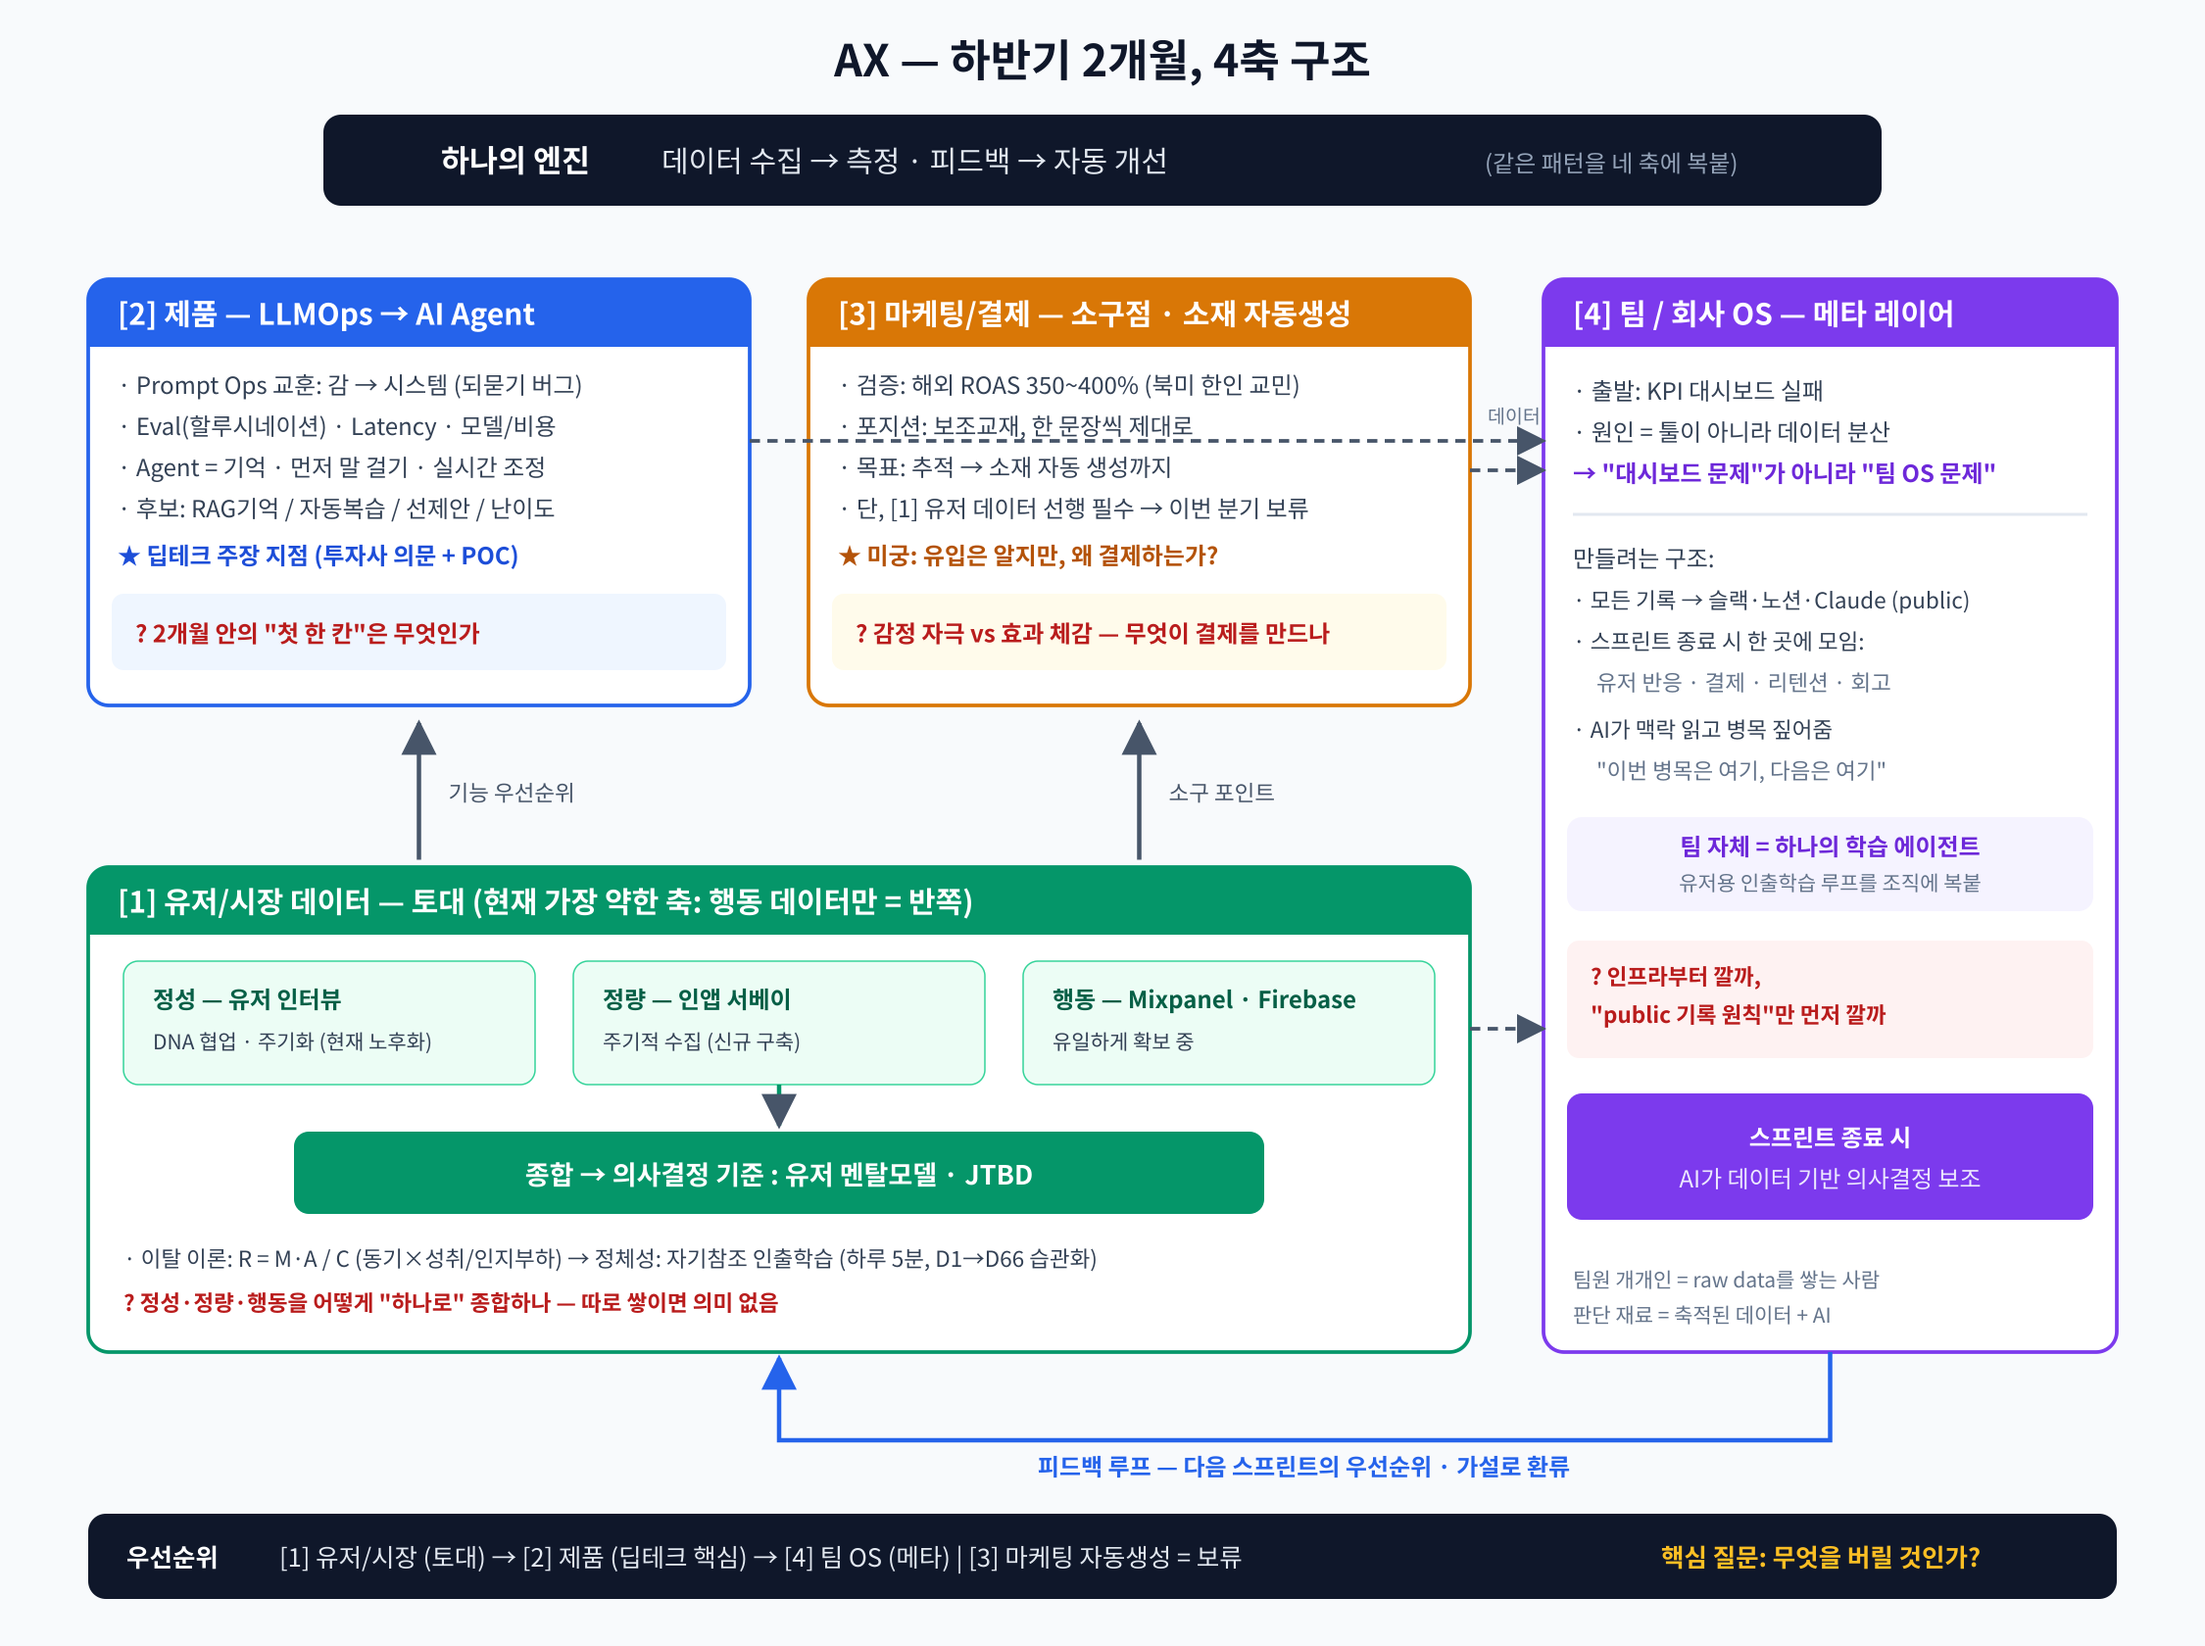
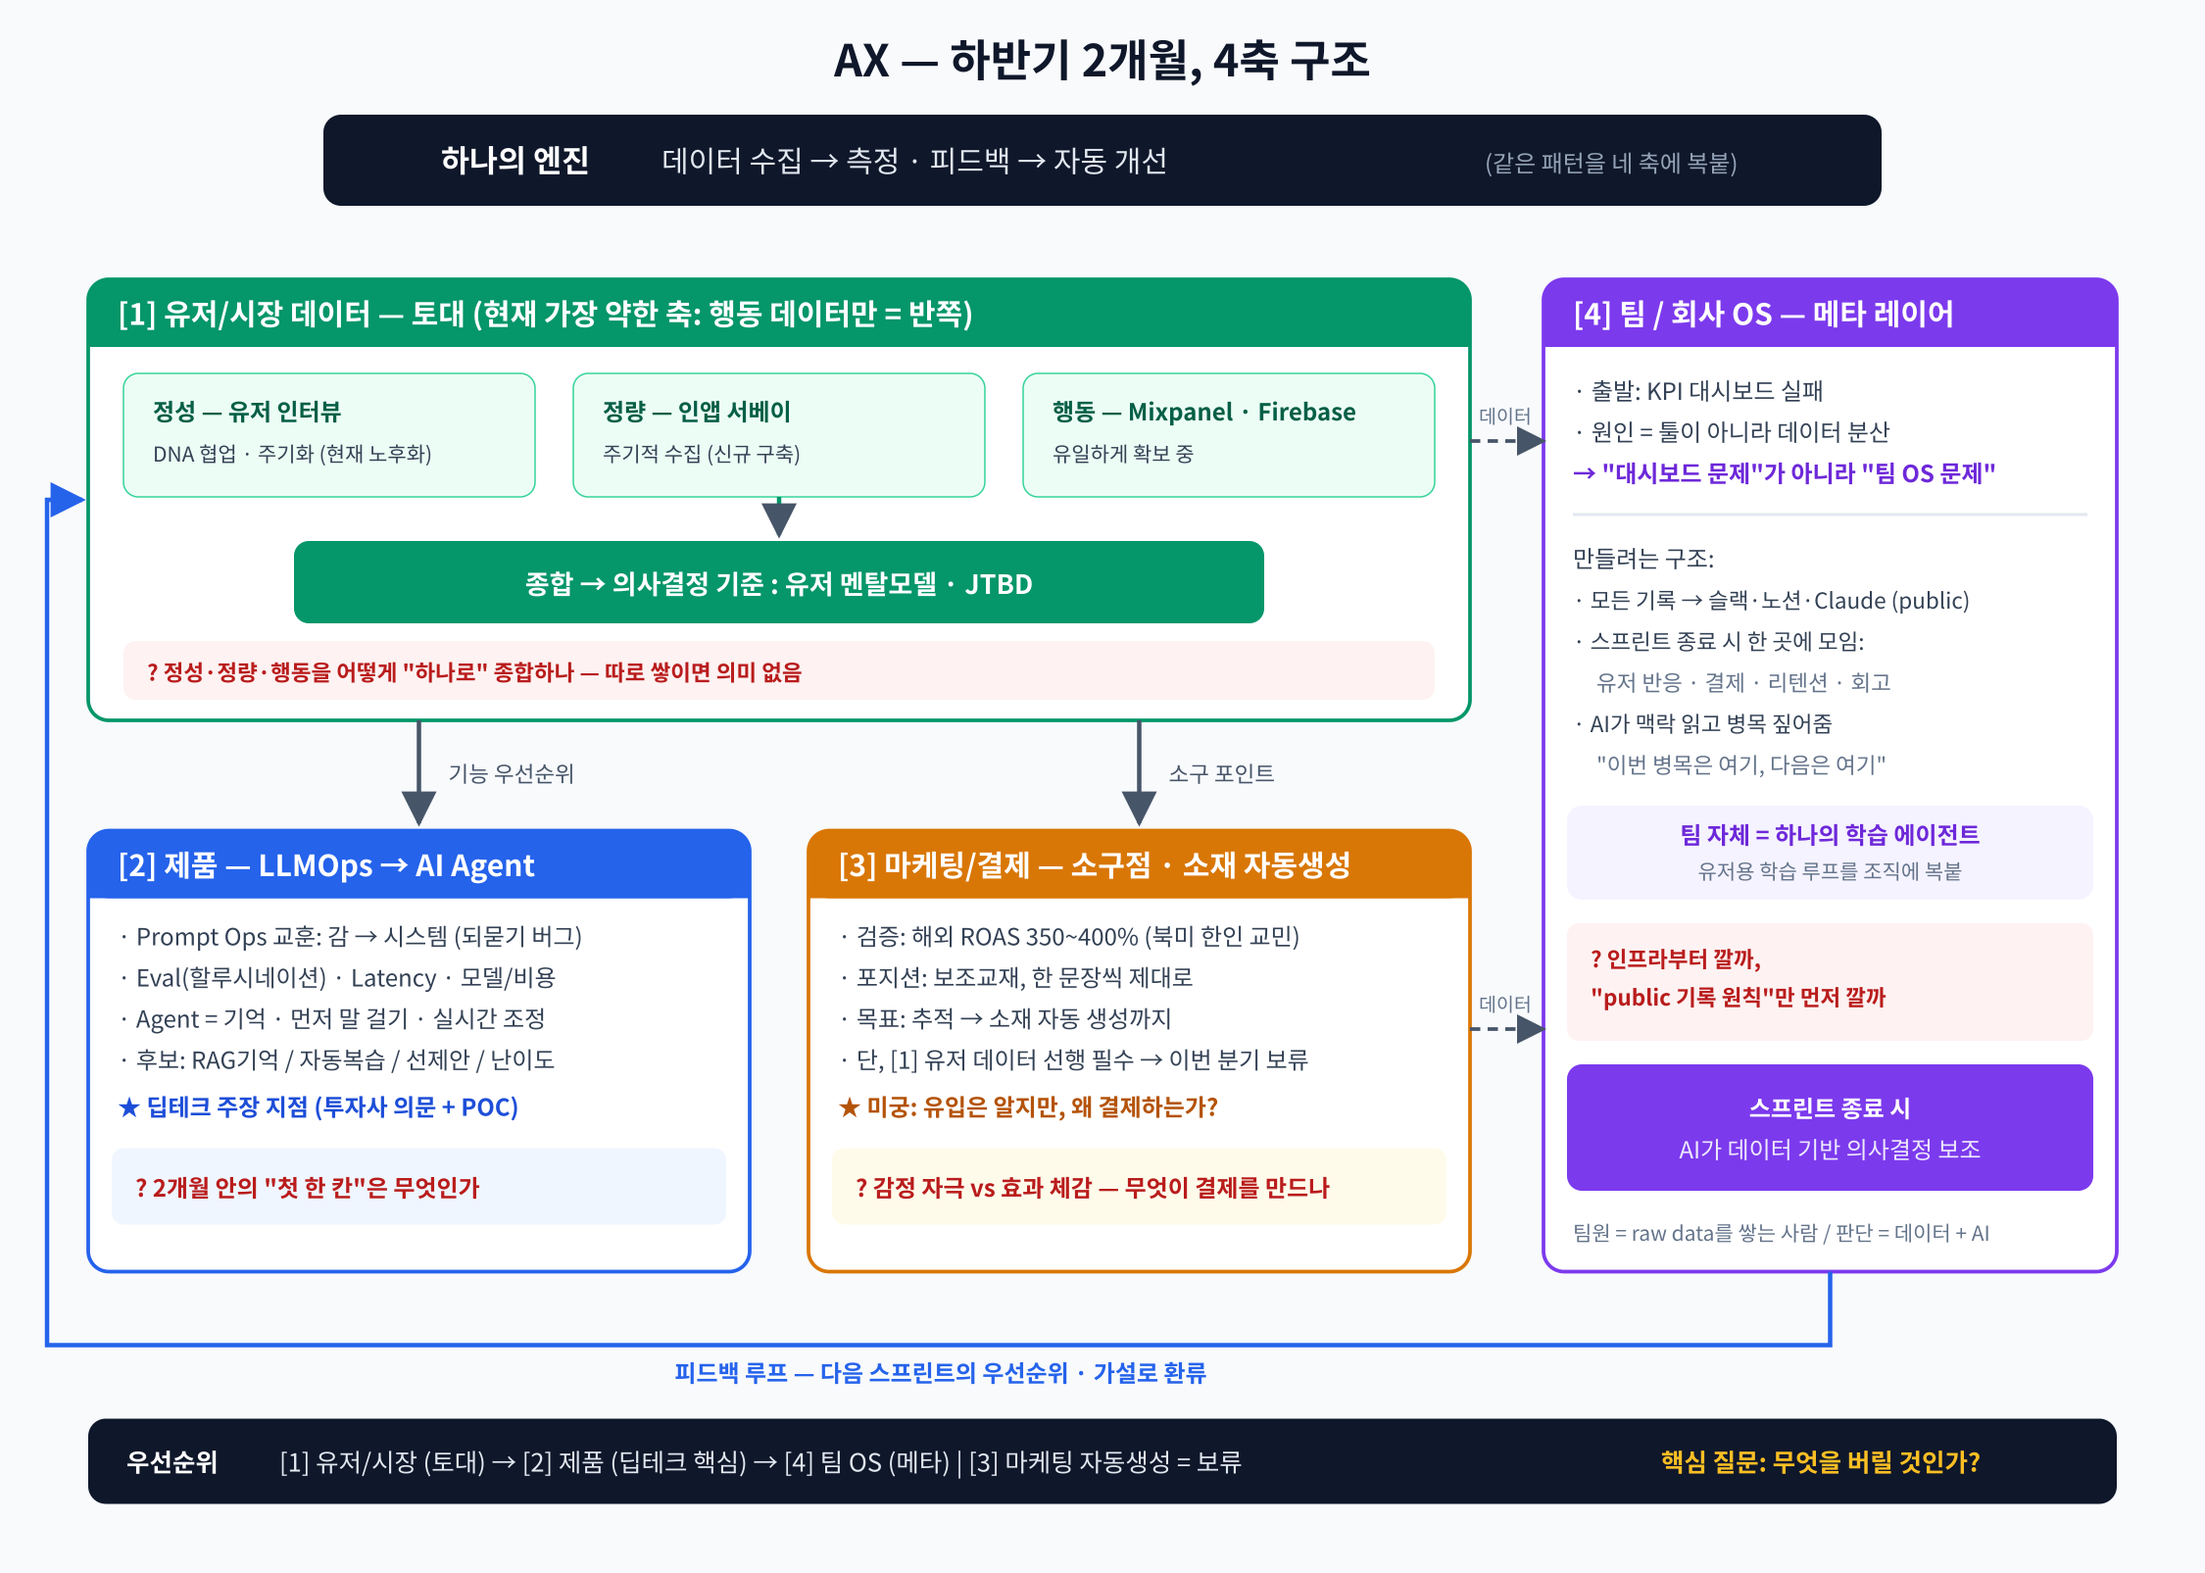
Restructure AX mentoring prep: user/market axis on top, remove retention theory
https://claude.ai/code/session_018CAFuDHLkAYe5YyLAQ8jaN

Changed region(s): [[0.0, 0.0312, 0.9644, 0.9969], [0.6533, 0.7788, 0.6844, 0.81], [0.4978, 0.4361, 0.5289, 0.4673]]

diff --git a/docs/strategy/ax-mentoring-prep.md b/docs/strategy/ax-mentoring-prep.md
@@ -1,0 +1,95 @@
+# AX — 하반기 2개월, 고민하는 구조 4가지
+
+## 0. 배경 — 지금 서 있는 자리
+
+- **자금**: IR을 거쳤지만 최종 조달은 융자 + 정부 창업지원. 12월 말까지 캐시 확보.
+- **다음 라운드**: 27년 1분기 투자/보증 — 우리 매출 성과에 달림.
+- **투자자 피드백 2가지** (에듀테크·학생창업 특성):
+  - 매출이 높다고 투자하지 않음 → **"안 망할 팀"인가** (운영 프로세스·원칙).
+  - **신뢰도** → POC 검증. 예: 업스테이지·KT 학습 에이전트 POC 공고 검토 중.
+- **모태**: 우리는 **데이터 전략 연구실.** 어떤 데이터를 모아, 어떻게 가공해, 어떻게 되돌려줄 것인가.
+- **프레임**: "대표는 더 큰 그림과 구조를 고민하라"는 피드백대로, 고민을 기능이 아니라 **하나의 엔진**으로 정리 — *데이터를 모으고 → 측정·피드백하고 → 자동 개선.* 이 엔진을 네 축에 적용.
+
+```
+[1] 유저/시장 데이터  ← 토대 (의사결정 기준: 멘탈모델·JTBD)
+      ├──▶ [2] 제품 기능 (LLMOps → Agent)
+      └──▶ [3] 마케팅 소구포인트 (소재 자동생성)
+[4] 팀 / 회사 OS  ← 위 세 축이 모여 학습되는 메타 레이어
+```
+
+---
+
+## 1. 유저/시장 — 데이터 획득
+
+- 지금 **가장 약한 축.** 제품에만 집중해온 탓에 유저 데이터가 반쪽 — **행동 데이터만** 존재.
+- 세 종류를 주기적으로 쌓는 구조로 개편:
+  - **정성** — 유저 인터뷰 (DNA 협업, 기존 데이터는 노후화)
+  - **정량** — 앱 내 survey 주기 수집 (신규 구축)
+  - **행동** — Mixpanel, Firebase 등 (유일하게 확보 중)
+- 종합 → **의사결정 기준**: 유저의 **멘탈 모델**, **JTBD.**
+- **전제**: 유저 데이터가 모여야 제품 기능도, 마케팅 소구포인트도 나옴. 나머지 축의 토대.
+- **타겟**: 초급↔중급. 영어 자체가 무섭고 어디서부터 할지 모르는 층 → *"일기만 쓰세요, 나머지는 저희가."*
+  - 핵심 결제층: 결제력 높은 중년 여성. 2030 여성은 액티베이션.
+- **막히는 지점**: 정성·정량·행동을 **하나로 종합**하는 방법. 따로 쌓이면 의미 없음.
+
+---
+
+## 2. 제품 — LLMOps → AI Agent
+
+- **현황**: LLM 약 14개를 묶은 LLMOps. 대외 포지션은 *일기.* 일기 → 분석 → 한 문장 슬라이싱 → 표현 연습 → 자동 저장 → 누적 데이터 제공.
+- **프롬프트 Ops를 하면서 느낀 점**이 전환점:
+  - 감으로 프롬프트를 고치다 측정해보니 감이 위험했음.
+  - 되묻기 버그("Sure! Please provide…") — 측정 없었으면 유저가 빈 응답 받는 걸 못 봤을 손실.
+  - → 결론: **LLMOps가 필요하다.** 세 요소를 시스템으로:
+    - **Evaluation** (할루시네이션↓) — 유저 신고/수정 → 데이터 축적 → 재학습 루프.
+    - **Latency** (렉 없는 경험).
+    - **모델·토큰 비용** 최적화.
+- **구조적 의미**: 이게 **"딥테크"라 주장할 지점.** 투자사 의문도 여기("GPT 래핑과 뭐가 다르냐"). POC(KT·업스테이지)도 이게 돼야 쉬움.
+- **다음 칸**: LLMOps → **Agent.** 차이 = 정서·의미·맥락 기억 + 먼저 말 걸기 + 실시간 조정(챗봇·전화영어). 와우 포인트·확장성·기술 인증.
+- **하반기 에이전트 후보 단계**:
+  - RAG 기반 **기억 고도화** (개인화)
+  - **자동 복습 시스템** (복습 타이밍 자동 계산)
+  - 누적 데이터로 **먼저 말 걸기·제안** (D7까지 데이터면 페르소나 도출 가능)
+  - **난이도·관심사 조절**
+- **확장성**: 영어 → 한국어, 나아가 금융·수학. **학습 메커니즘 자체를 판매.**
+- **막히는 지점**: 2개월 스코프. 후보 중 **첫 한 칸**을 무엇으로. → 멘토 판단 필요: 기술 깊이는 어디서 나오나.
+
+---
+
+## 3. 마케팅/결제 — 소구 포인트 & 소재 자동 생성
+
+- **검증된 사실**: LLMOps만으로도 결제 발생. 해외 ROAS **350~400%** (광고 20만 원 → 매출 약 70만 원).
+- **가장 큰 미궁**: *유입*은 어느 정도 알지만 **왜 결제하는지 모름.**
+- **결제 가설** (검증 대상):
+  - 초기 유저 → **감정 자극**(기대감)으로 결제.
+  - 신중 유저 → 에이전트로 **체감**("진짜 늘고 있네") → 결제 → 찐팬 → 바이럴·레퍼럴.
+  - 기능적으로 **CES(고객 노력)** 를 낮춰야 함.
+- **검증된 세그먼트 — 북미 한인 교민**:
+  - 생존 영어 필요 / 어학원은 물리적 거리 / 한 문장씩 교정 → 친절 / 달러 결제로 저렴.
+- **포지셔닝**: **보조교재.** 유니크 = 개인 데이터를 쓰며 *한 문장씩 제대로* 학습. 스픽과 싸우지 않고 함께. 가격 경쟁 대신 **많이 쓰게 → 결제 전환율↑.**
+- **소재 자동 생성** (조건부): 지금은 추적만 함. 유저 데이터 기반 소구 포인트 → 소재 자동 생성이 목표. **단, 1번이 선행.** 입장: 2개월 안엔 미룸.
+- **막히는 지점**: 결제 동인을 8 스프린트로 어떻게 특정할 것인가 (감정 vs 체감 분리).
+
+---
+
+## 4. 팀/조직 — 회사 OS
+
+- **실패에서 출발한 고민.** KPI 대시보드 시도 → 생각보다 어려웠음.
+- 파보니 문제는 대시보드가 아니라 **데이터가 한 곳에 안 모여 있다는 것** (유저/제품/마케팅이 따로).
+  - → 대시보드 문제가 아니라 **"팀 OS 문제"**로 재정의. 둘은 연결됨.
+- **만들려는 것**: 화면이 아니라 구조.
+  - 기록은 슬랙·노션·피그마·Claude 한 곳으로, 모두가 볼 수 있게(public).
+  - 스프린트 종료 시 유저 반응·결제·리텐션·회고가 한 곳에 모이고 → AI가 맥락을 읽어 *"이번 병목은 여기, 다음은 여기 집중"* 짚어주는.
+  - 결국 **팀 자체를 하나의 학습 에이전트로.** 팀원 개개인은 raw data를 쌓고, AI가 의사결정을 보조.
+- **막히는 지점**: "어디서부터?"
+  - 인프라부터 제대로 깔지, 아니면 *"기록은 무조건 public 채널에"* 원칙만 세우고 도구는 나중에.
+  - 대시보드처럼 완벽주의로 삽질할 위험. → 멘토 판단 필요: 최소 구성.
+
+---
+
+## 5. 정리
+
+- 의존 구조상 우선순위: **[1] 유저/시장 → [2] 제품 → [4] 팀 OS** 가 토대, **[3] 마케팅(소재 자동생성)** 은 뒤.
+- 네 축을 2개월에 다 하려는 게 욕심일 수 있음.
+- **멘토에게 듣고 싶은 한 가지**: 무엇을 먼저 깔고, 무엇을 이번 분기엔 버려야 하나.
+- **남은 가장 큰 물음표**: 왜 결제하는가 (3번). 이걸 모른 채 연말 마케팅을 태우는 게 가장 큰 리스크.
